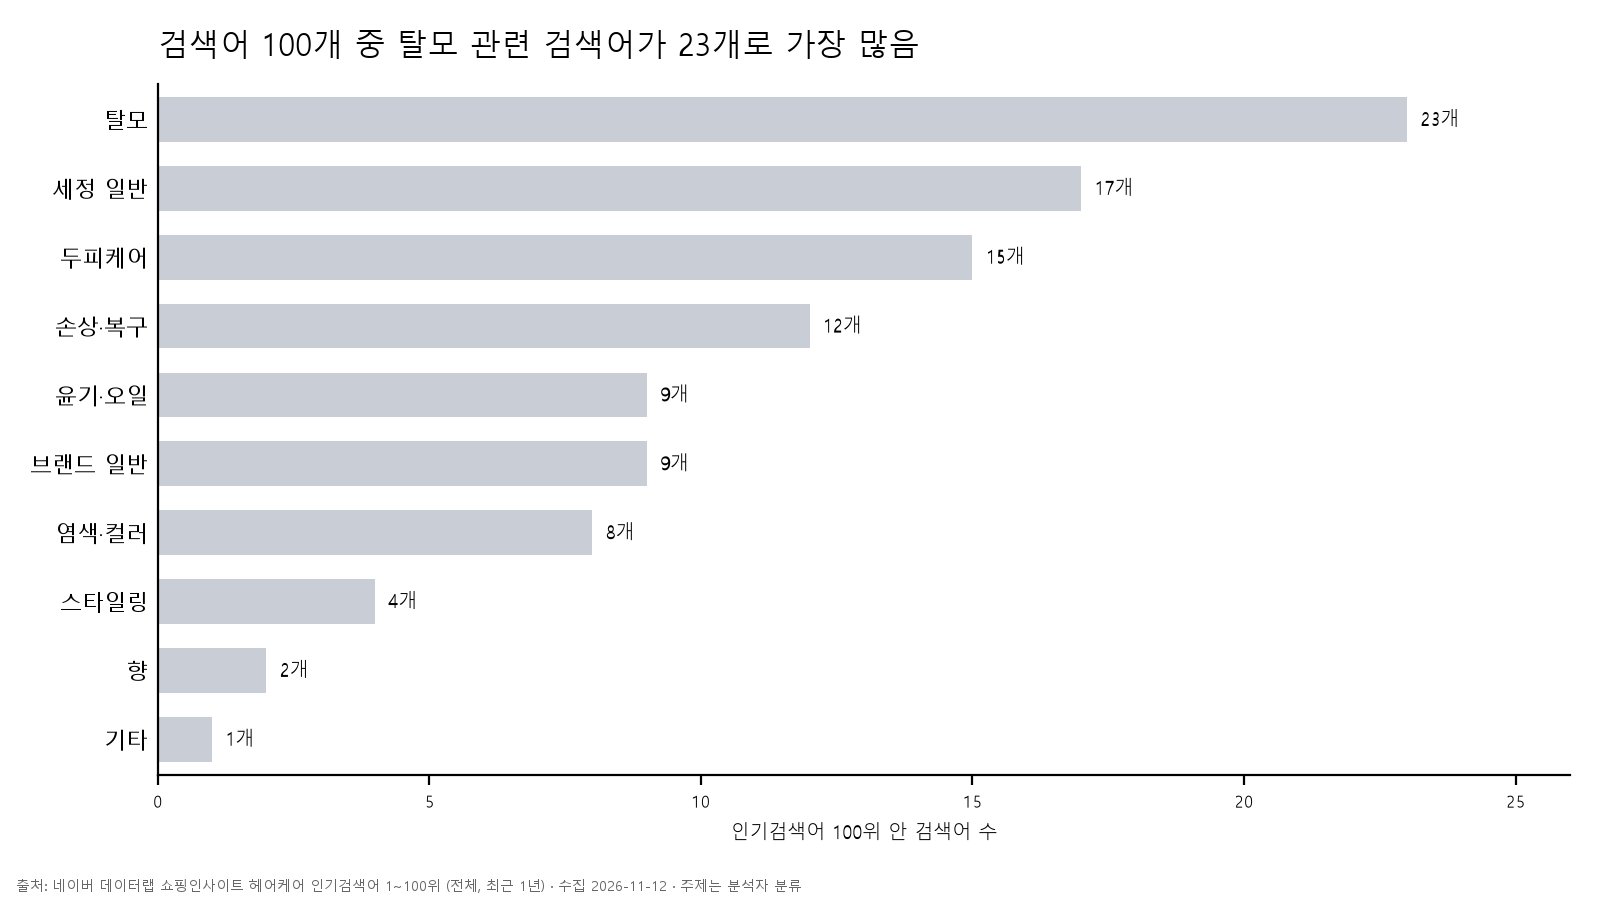
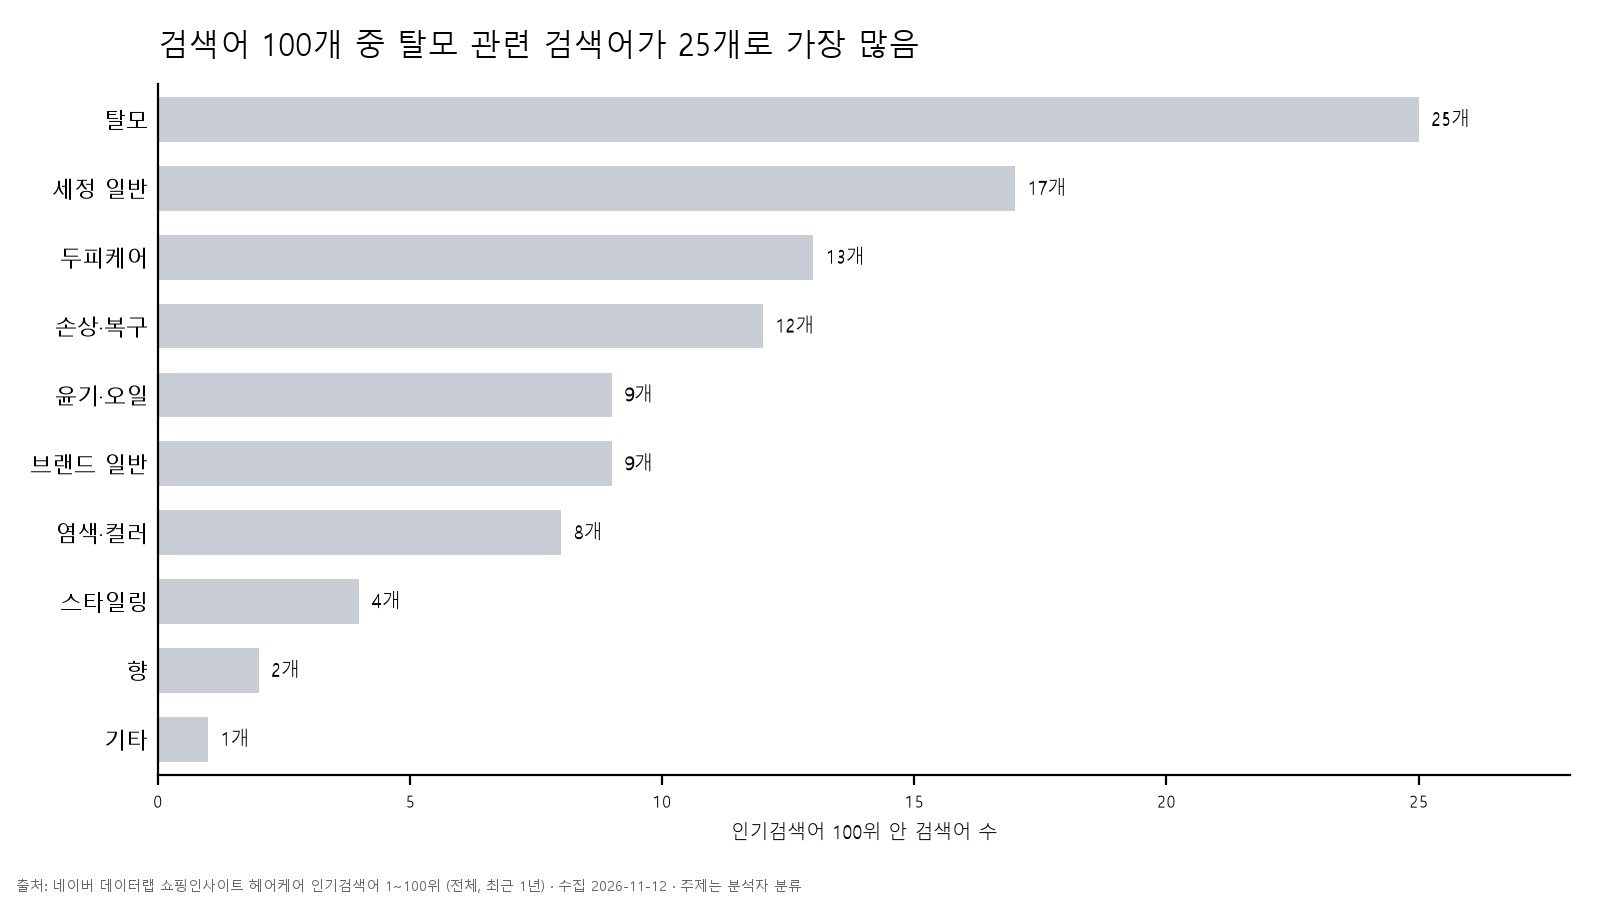
data(03): 검색어·랭킹 제품 주제 분류 수정
- 검색어: 전체의 두피 앰플 2개를 두피케어에서 탈모로 변경, 5·6번 재집계
- 랭킹 제품 100개에 주제를 붙인 oy_rank_topic 추가

diff --git a/03_kr-haircare-trends/scripts/load_oy_topic.py b/03_kr-haircare-trends/scripts/load_oy_topic.py
@@ -1,0 +1,36 @@
+"""올리브영 랭킹 제품 100개에 검색어(B)와 같은 주제(topic)를 붙인다.
+-> data/oy_rank_topic.csv (rank, topic, needs_check), table oy_rank_topic (oy_rank + topic, topic_check)
+
+분류 규칙은 nv_keyword와 같다: 제품명에 고민이 드러나면 그 주제.
+머리 빠짐·볼륨은 탈모, 비듬·지성·각질·진정은 두피케어, 트리트먼트·헤어팩은 손상·복구,
+에센스·오일·식초는 윤기·오일, 고민 표시 없는 샴푸는 세정 일반.
+열보호·노워시 트리트먼트는 손상·복구, '글로스·광채' 라인은 윤기·오일, 탈모 문구로 판매하는 두피 앰플은 탈모.
+기기·브러쉬(6, 35, 82위)도 같은 규칙으로 주제를 붙이고, 기기 여부는 cat_mid로 구분한다.
+사용자가 2026-11-13에 분류를 모두 확정했다. 순위 뒤에 '?'를 붙이면 확정 전으로 표시된다 (needs_check = 1).
+"""
+import sqlite3
+from pathlib import Path
+import pandas as pd
+
+root = Path(__file__).resolve().parent.parent
+TOPICS = {
+    "탈모": "2 4 5 13 14 21 22 77 96 28 36 63 86 10 52 76 39 51",
+    "두피케어": "11 62 16 53 55 87 99 100 68 35 82",
+    "손상·복구": "8 80 88 27 54 70 92 1 17 24 50 57 60 71 75 89 90 93 6 81 64 79 19 30 45 42",
+    "윤기·오일": "15 25 33 56 72 84 3 9 18 49 74 94 95 47 29 91",
+    "염색·컬러": "7 12 32 37 40 48 67 73",
+    "스타일링": "20 43 66 85 44 58 59 97 26 31 46 83 23 78 34",
+    "세정 일반": "41 38 65",
+    "기타": "69 98 61",
+}
+rows = [(int(tok.rstrip("?")), topic, int(tok.endswith("?"))) for topic, s in TOPICS.items() for tok in s.split()]
+t = pd.DataFrame(rows, columns=["rank", "topic", "needs_check"]).sort_values("rank")
+assert sorted(t["rank"]) == list(range(1, 101)), "every rank 1..100 exactly once"
+t.to_csv(root / "data" / "oy_rank_topic.csv", index=False, encoding="utf-8-sig")
+
+with sqlite3.connect(root / "data" / "haircare.db") as con:
+    oy = pd.read_sql_query("SELECT * FROM oy_rank", con)
+    merged = oy.merge(t.rename(columns={"needs_check": "topic_check"}), on="rank", validate="one_to_one")
+    merged.to_sql("oy_rank_topic", con, if_exists="replace", index=False)
+print(t["topic"].value_counts().to_string())
+print("needs_check:", int(t["needs_check"].sum()))

diff --git a/03_kr-haircare-trends/scripts/chart_06.py b/03_kr-haircare-trends/scripts/chart_06.py
@@ -20,8 +20,8 @@ ax.set_yticks(y, p.index)
 ax.set_xlabel("인기검색어 100위 안 검색어 수", fontsize=7)
 ax.tick_params(axis="y", labelsize=8, length=0)
 ax.tick_params(axis="x", labelsize=6)
-ax.set_xlim(0, 27)
+ax.set_xlim(0, 29)
 ax.margins(y=0.02)
-ax.legend(fontsize=6.5, frameon=False, loc="lower right")
-finish(fig, ax, "06_keyword_segment", "2030 여성은 손상·복구 검색어가 전체보다 8개 많고, 탈모 검색어는 8개 적음",
+ax.legend(fontsize=6.5, frameon=False, loc="center right")
+finish(fig, ax, "06_keyword_segment", "2030 여성은 손상·복구 검색어가 전체보다 8개 많고, 탈모 검색어는 10개 적음",
        source="출처: 네이버 데이터랩 쇼핑인사이트 헤어케어 인기검색어 1~100위 (전체 / 여성 20·30대, 최근 1년) · 수집 2026-11-12 · 주제는 분석자 분류")

diff --git a/03_kr-haircare-trends/scripts/chart_05.py b/03_kr-haircare-trends/scripts/chart_05.py
@@ -14,5 +14,5 @@ ax.tick_params(axis="y", labelsize=8, length=0)
 ax.tick_params(axis="x", labelsize=6)
 ax.set_xlim(0, df["검색어수"].max() + 3)
 ax.margins(y=0.02)
-finish(fig, ax, "05_keyword_topic", "검색어 100개 중 탈모 관련 검색어가 23개로 가장 많음",
+finish(fig, ax, "05_keyword_topic", "검색어 100개 중 탈모 관련 검색어가 25개로 가장 많음",
        source="출처: 네이버 데이터랩 쇼핑인사이트 헤어케어 인기검색어 1~100위 (전체, 최근 1년) · 수집 2026-11-12 · 주제는 분석자 분류")
